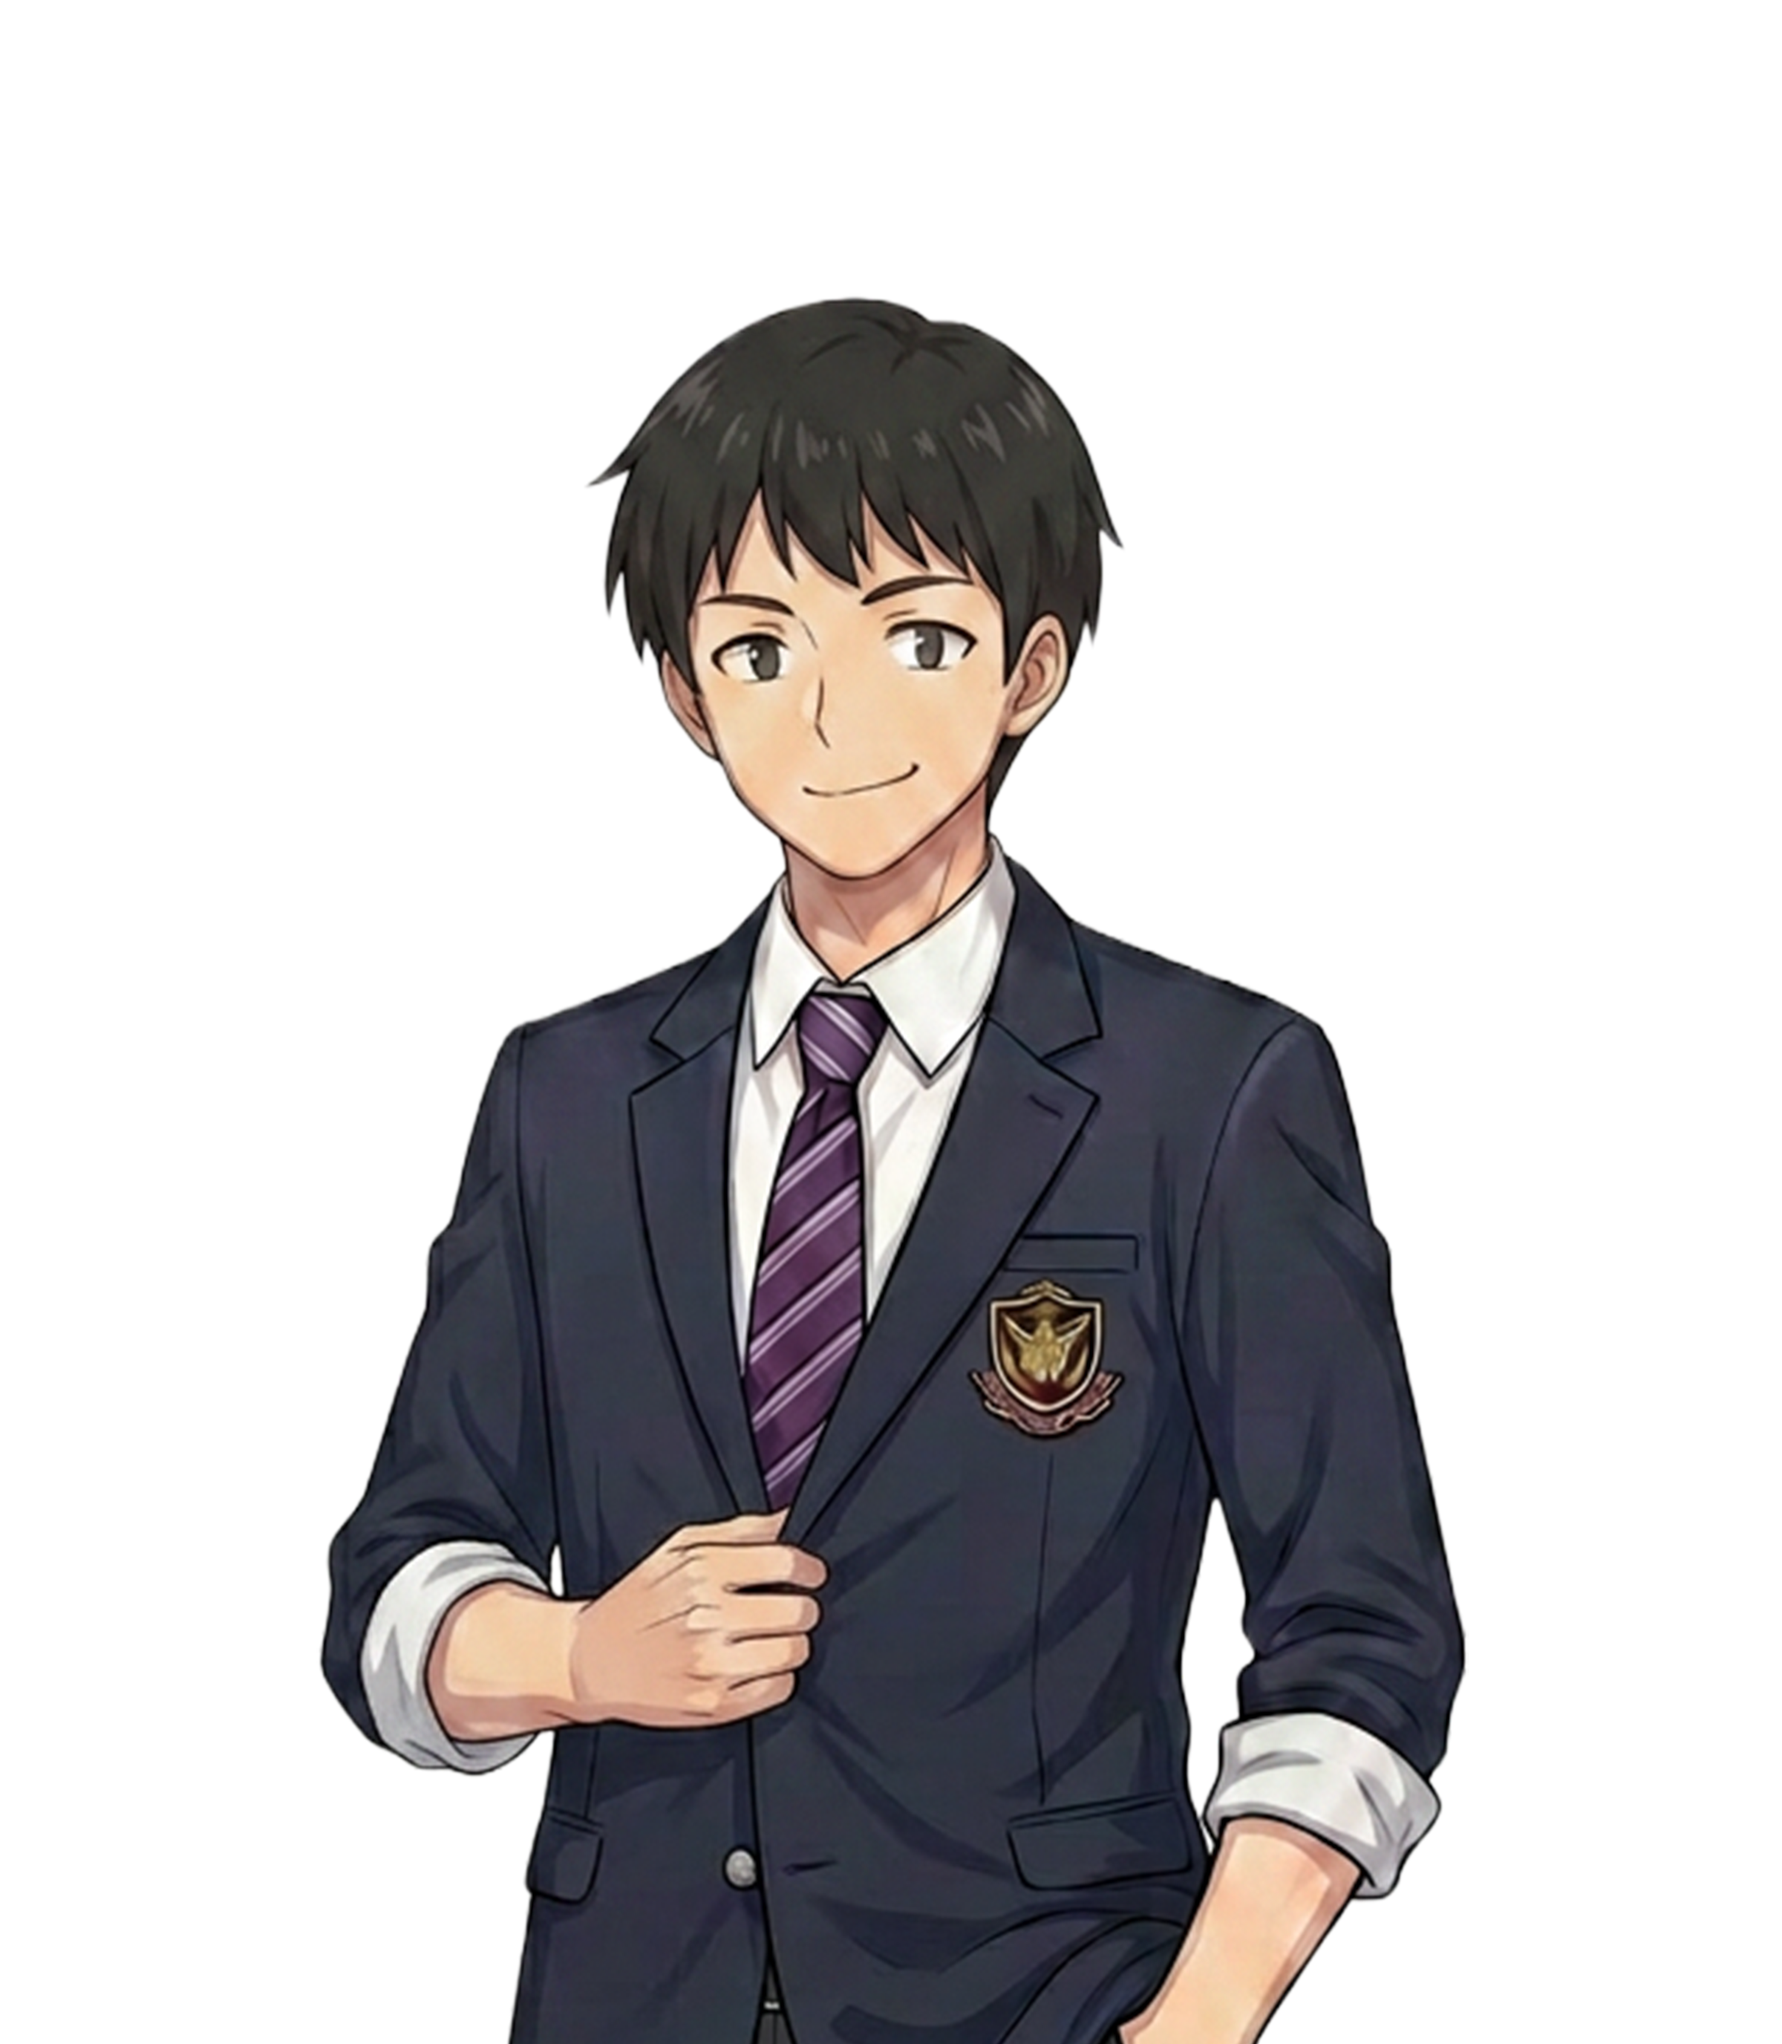
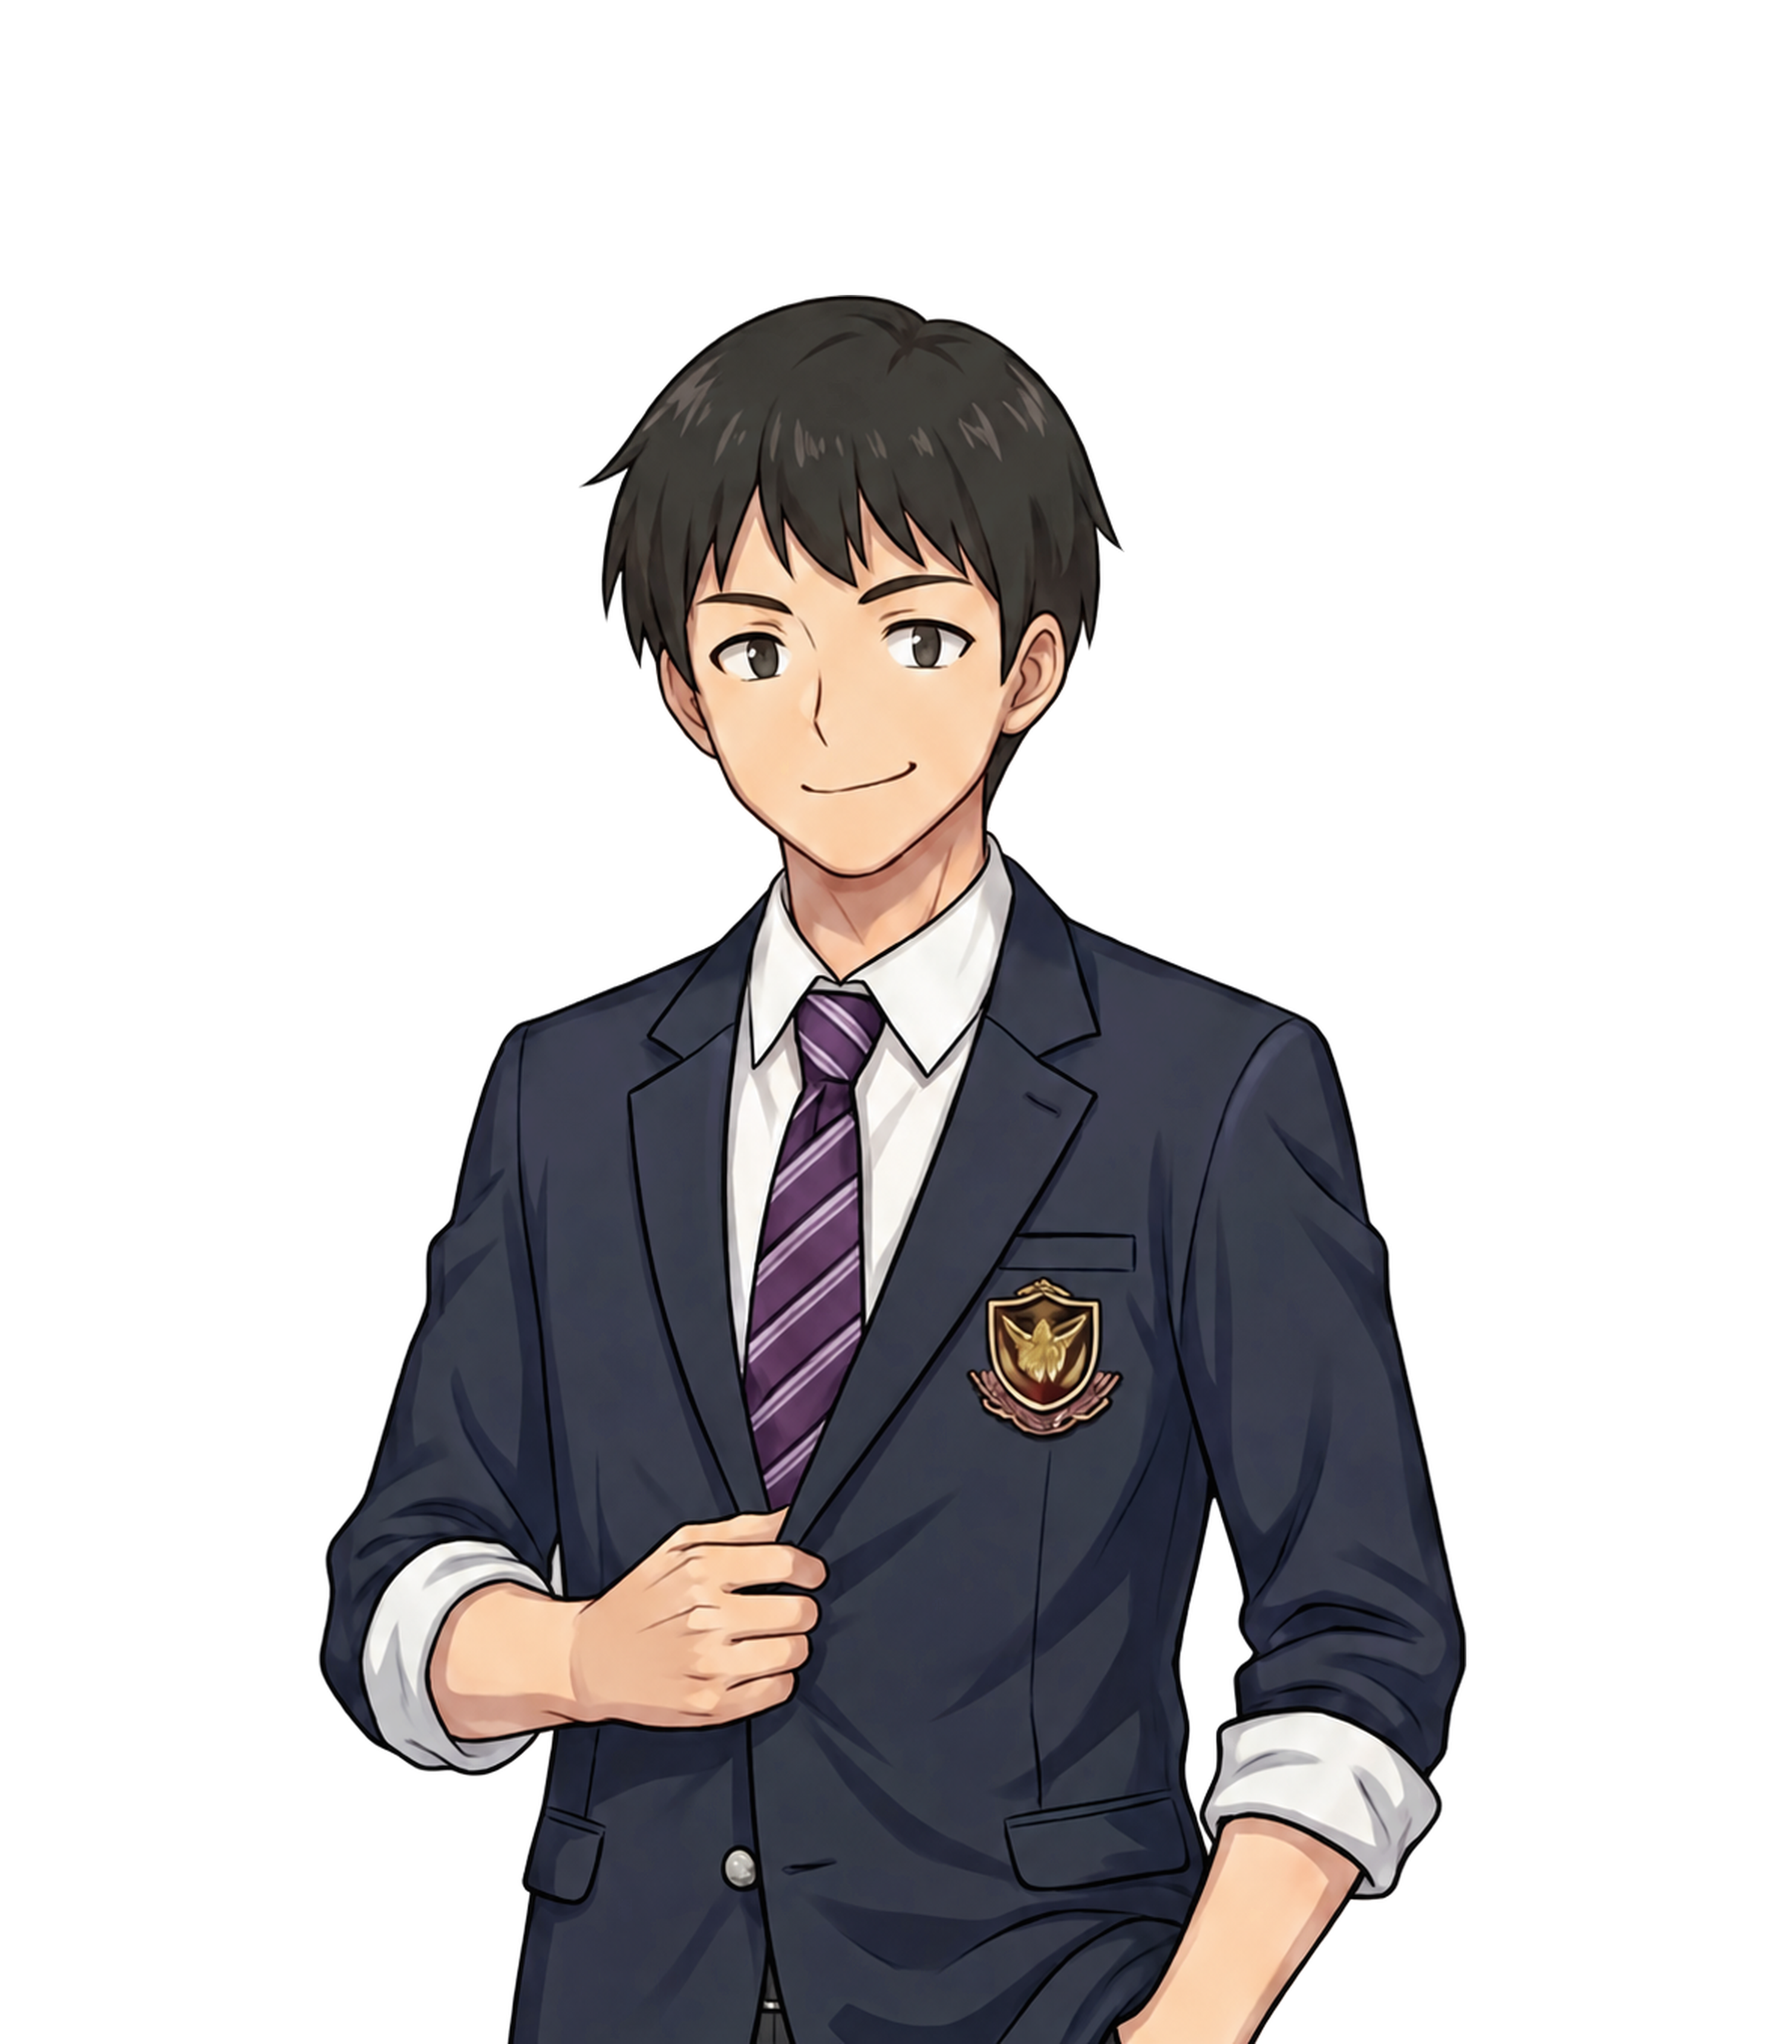
Release 1.3.6: clean classmate and Mahiru sprite noise

diff --git a/lp/ai/index.html b/lp/ai/index.html
@@ -52,7 +52,7 @@
       </div>
       <figure class="hero-visual">
         <div class="poster-frame"><img src="../assets/images/poster.png" alt="星空の下に集まる、放課後のステラの主人公と三人のヒロイン" data-alt-en="The protagonist and three heroines of After School Stella beneath a starry sky" width="848" height="1264" fetchpriority="high"></div>
-        <figcaption><span class="visual-stamp" data-en="YES, YOU CAN PLAY IT.">この世界、ちゃんと遊べます。</span><span class="visual-version">BROWSER GAME / ver 1.3.5</span></figcaption>
+        <figcaption><span class="visual-stamp" data-en="YES, YOU CAN PLAY IT.">この世界、ちゃんと遊べます。</span><span class="visual-version">BROWSER GAME / ver 1.3.6</span></figcaption>
         <span class="orbit-label" aria-hidden="true">IDEA → DIALOGUE → CREATE → PLAY</span>
       </figure>
     </section>
@@ -97,7 +97,7 @@
       <div class="wrap closing-inner"><p class="eyebrow">MADE IN SPARE MOMENTS. READY FOR YOURS.</p><h2 id="closing-title"><span data-en="Made in one person's spare time.">ひとりのスキマ時間から、</span><br><span data-en="Now, a story for yours.">あなたの放課後へ。</span></h2><p data-en="See what one creator and AI made together. Then stay for the characters, their choices, and their story.">一人とAIで、どこまでつくれたのか。<br>その答えを、物語の中で確かめてみてください。</p><a class="button primary" href="../../index.html" data-cta="footer"><span data-en="Play for free">無料でプレイする</span><span aria-hidden="true">↗</span></a><p class="micro" data-en="Free to the end · For all ages · Sound on · Landscape recommended on phones">最後まで無料・全年齢 ／ 音が流れます ／ スマホは横向き推奨</p></div>
     </section>
   </main>
-  <footer class="footer wrap"><span data-en="After School Stella / ver 1.3.5">放課後のステラ ／ ver 1.3.5</span><a href="../#updates" data-en="Release notes">更新履歴</a><a href="../" data-en="Explore the world">作品紹介ページへ</a><a href="#top" data-en="Back to top ↑">ページ上部へ ↑</a></footer>
+  <footer class="footer wrap"><span data-en="After School Stella / ver 1.3.6">放課後のステラ ／ ver 1.3.6</span><a href="../#updates" data-en="Release notes">更新履歴</a><a href="../" data-en="Explore the world">作品紹介ページへ</a><a href="#top" data-en="Back to top ↑">ページ上部へ ↑</a></footer>
   <script src="../voice-preview.js"></script>
   <script src="script.js"></script>
   <script src="../experiment.js"></script>

diff --git a/lp/script.js b/lp/script.js
@@ -93,6 +93,8 @@ const translations = {
       ".final-inner .button-primary": "ゲーム本体へ",
       '.site-nav a[href="#updates"]': "更新履歴",
       "#updates-title": "更新履歴",
+      "#update-1-3-6 .update-version": "ver 1.3.6",
+      "#update-1-3-6 .update-points li:nth-child(1)": "男子クラスメイトの3表情と、まひるの驚き表情の立ち絵ノイズを修正。",
       "#update-1-3-5 .update-version": "ver 1.3.5",
       "#update-1-3-5 .update-points li:nth-child(1)": "メッセージウィンドウの初期透明度を70%に変更。",
       "#update-1-3-5 .update-points li:nth-child(2)": "Q.SAVE・Q.LOAD・AUTO・SKIPにも透明度設定を反映。",
@@ -220,6 +222,8 @@ const translations = {
       ".final-inner .button-primary": "Open the Game",
       '.site-nav a[href="#updates"]': "Updates",
       "#updates-title": "Update History",
+      "#update-1-3-6 .update-version": "ver 1.3.6",
+      "#update-1-3-6 .update-points li:nth-child(1)": "Cleaned noise in three male-classmate sprites and Mahiru's surprised sprite.",
       "#update-1-3-5 .update-version": "ver 1.3.5",
       "#update-1-3-5 .update-points li:nth-child(1)": "Changed the default message-window transparency to 70%.",
       "#update-1-3-5 .update-points li:nth-child(2)": "Applied transparency settings to Q.SAVE, Q.LOAD, AUTO and SKIP.",

diff --git a/lp/index.html b/lp/index.html
@@ -387,6 +387,10 @@
           <h2 id="updates-title">更新履歴</h2>
         </div>
         <ol class="updates-list">
+          <li class="update-entry" id="update-1-3-6">
+            <div class="update-meta"><span class="update-version">ver 1.3.6</span><span class="update-date">2026.10.21</span></div>
+            <ul class="update-points"><li>男子クラスメイトの3表情と、まひるの驚き表情の立ち絵ノイズを修正。</li></ul>
+          </li>
           <li class="update-entry" id="update-1-3-5">
             <div class="update-meta"><span class="update-version">ver 1.3.5</span><span class="update-date">2026.10.21</span></div>
             <ul class="update-points">
@@ -493,7 +497,7 @@
 
   <footer class="site-footer">
     <p>放課後のステラ 嘘と願いのバウンドリー</p>
-    <p class="footer-version">ver 1.3.5</p>
+    <p class="footer-version">ver 1.3.6</p>
     <a href="#top">ページ上部へ</a>
   </footer>
 

diff --git a/config.js b/config.js
@@ -4,7 +4,7 @@
  */
 const VN_CONFIG = {
 
-  version: '1.3.5',
+  version: '1.3.6',
   endingCoda: {
   "kotoha_good_end": [
     "$route_kotoha.kotoha_ch12_good_end.coda001",
@@ -23,6 +23,9 @@ const VN_CONFIG = {
   ]
 },
   releaseNotes: [
+    { version: '1.3.6', date: '2026-10-21',
+      ja: ["男子クラスメイトの3表情と、まひるの驚き表情の立ち絵ノイズを修正。"],
+      en: ["Cleaned noise in three male-classmate sprites and Mahiru's surprised sprite."] },
     { version: '1.3.5', date: '2026-10-21',
       ja: ["メッセージウィンドウの初期透明度を70%に変更。", "Q.SAVE・Q.LOAD・AUTO・SKIPにも透明度設定を反映。"],
       en: ["Changed the default message-window transparency to 70%.", "Applied transparency settings to Q.SAVE, Q.LOAD, AUTO and SKIP."] },

diff --git a/tools/check_lp_variants.py b/tools/check_lp_variants.py
@@ -55,9 +55,9 @@ def main():
             samples=c.evaluate("""(async()=>{const context=new OfflineAudioContext(1,44100,44100),out=[];for(const lang of ['ja','en']){const manifest=await fetch('/assets/voice/'+lang+'/manifest.json').then(r=>r.json());for(const button of document.querySelectorAll('.voice-play')){const source=button.dataset[lang+'Src'],id=source.split('/').pop().split('.').slice(0,3).join('.'),clip=manifest.clips[id];if(new URL(source,location.href).pathname!=='/'+clip.src||Number(button.dataset[lang+'Gain'])!==clip.gainDb)throw new Error('Stale voice sample '+id);const response=await fetch(source);if(!response.ok)throw new Error(source);const buffer=await context.decodeAudioData(await response.arrayBuffer());out.push({language:lang,id,duration:buffer.duration})}}return out})()""")
             assert len(samples)==6 and all(s['duration']>.1 for s in samples)
             if variant=='story':
-                assert c.evaluate("document.querySelector('.footer-version').textContent==='ver 1.3.5'&&document.querySelector('#update-1-3-5 .update-points').children.length===2&&document.querySelector('#update-1-3-5 .update-date').textContent==='2026.10.21'")
+                assert c.evaluate("document.querySelector('.footer-version').textContent==='ver 1.3.6'&&document.querySelector('#update-1-3-6 .update-points').children.length===1&&document.querySelector('#update-1-3-6 .update-date').textContent==='2026.10.21'")
             else:
-                assert c.evaluate("document.querySelector('.visual-version').textContent.includes('1.3.5')&&document.querySelector('.footer').textContent.includes('1.3.5')")
+                assert c.evaluate("document.querySelector('.visual-version').textContent.includes('1.3.6')&&document.querySelector('.footer').textContent.includes('1.3.6')")
             c.click('[data-voice-character][data-role="kotoha"] .voice-play')
             c.wait("document.querySelector('[data-voice-character][data-role=\"kotoha\"] .voice-play').dataset.state==='playing'")
             assert c.evaluate("performance.getEntriesByType('resource').some(r=>r.name.includes('kotoha-leira-v1.mp3')) && document.querySelectorAll('.voice-play[aria-pressed=\"true\"]').length===1")
@@ -77,7 +77,7 @@ def main():
             c.click('.language' if variant=='ai_solo' else '.language-toggle')
             assert c.evaluate("document.documentElement.lang==='en'")
             if variant=='story':
-                assert c.evaluate("document.querySelector('#update-1-3-5 .update-points').textContent.includes('default message-window transparency')&&[...document.querySelectorAll('.update-points')].every(el=>el.children.length>=1&&el.children.length<=3)")
+                assert c.evaluate("document.querySelector('#update-1-3-6 .update-points').textContent.includes('male-classmate sprites')&&[...document.querySelectorAll('.update-points')].every(el=>el.children.length>=1&&el.children.length<=3)")
             if variant=='ai_solo':assert c.evaluate("document.querySelector('h1').innerText.includes('One creator.')")
             assert c.evaluate("document.querySelector('.voice-play-label').innerText==='Listen'")
             c.evaluate("document.querySelector('[data-voice-samples]').scrollIntoView({behavior:'instant'})")

diff --git a/CHANGELOG.md b/CHANGELOG.md
@@ -1,5 +1,10 @@
 # 更新履歴
 
+## 1.3.6 — 2026-10-21
+
+- 男子クラスメイトのnormal・laugh・workと、まひるのカメラ付き制服surprisedを元デザインから再描画し、周囲の線状ノイズ・粒状ノイズを除去。透過の縁を整え、元のPNGサイズ・表示範囲へ書き出し。
+- 編集用元素材と生成指示は隣の素材リポジトリ`assets-src/repairs/20261021-character-noise/`に保存。再描画のため細かな線・塗りには差がある。
+
 ## 1.3.5 — 2026-10-21
 
 - メッセージウィンドウの初期透明度を70%（不透明度0.3）に変更。保存済みの透明度設定は維持。

diff --git a/README.md b/README.md
@@ -1,6 +1,6 @@
 # 放課後のステラ　嘘と願いのバウンドリー
 
-現行版：**ver 1.3.5（2026-10-21）**。変更点は [更新履歴](CHANGELOG.md) を参照。
+現行版：**ver 1.3.6（2026-10-21）**。変更点は [更新履歴](CHANGELOG.md) を参照。
 
 恋愛アドベンチャーゲーム（ブラウザ動作・バニラJS）
 
